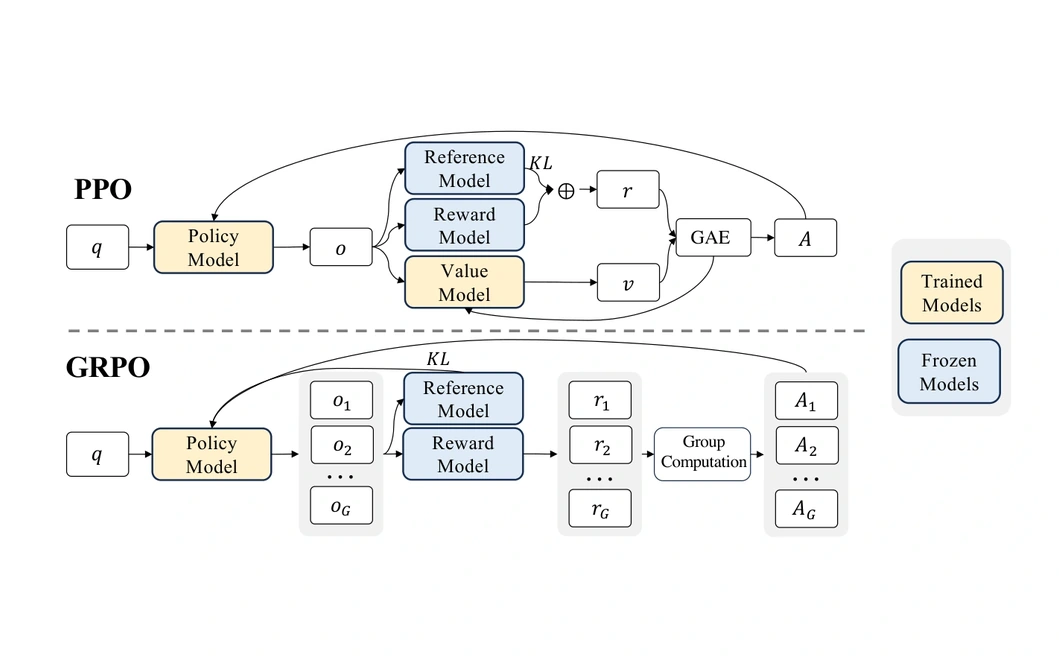
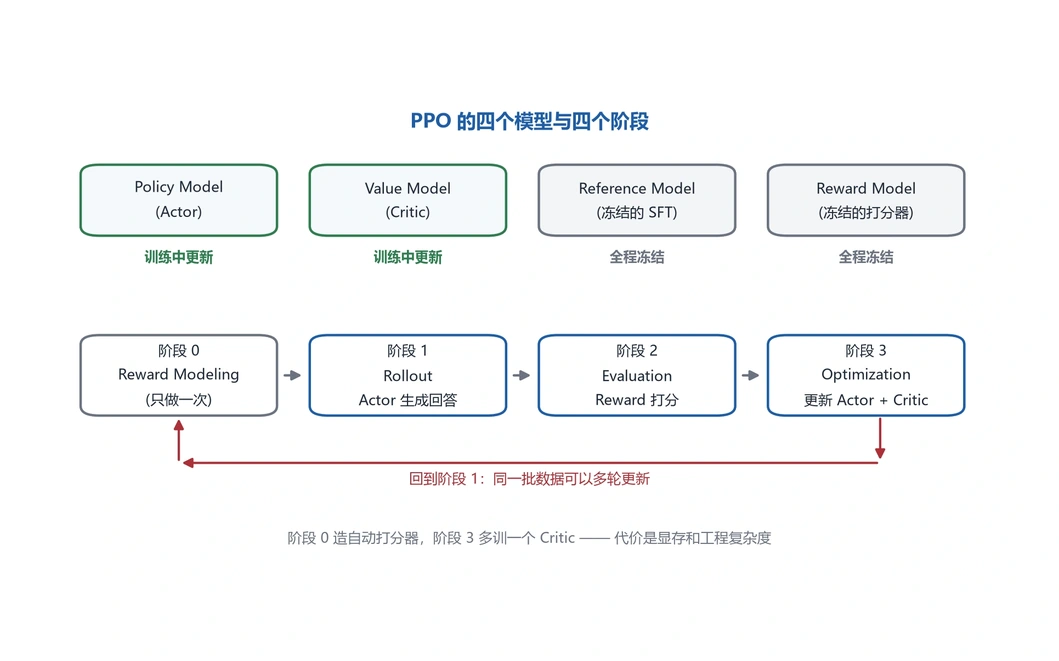
强化学习笔记（一）改用 PPO 模型与阶段图作为卡片封面

Changed region(s): [[0.0623, 0.1513, 0.966, 0.8472]]

diff --git a/tools/rl-cover.py b/tools/rl-cover.py
@@ -1,0 +1,98 @@
+"""Render the card cover for the RL note (part 1).
+
+The blog's other notes use a padded paper figure as the post-list card image,
+but those figures turn into an unreadable grey mush at card size. This cover is
+a deliberately simple concept diagram — three stages, three arrows — so the
+topic still reads when scaled down to a ~380px-wide card.
+"""
+
+import pathlib
+import sys
+
+import matplotlib
+
+matplotlib.use("Agg")
+import matplotlib.pyplot as plt
+from matplotlib.patches import FancyArrowPatch, FancyBboxPatch
+from PIL import Image
+
+sys.stdout.reconfigure(encoding="utf-8", errors="replace")
+
+BLUE = "#1f5da8"
+TINT = "#eef4fc"
+GREY = "#6b7280"
+INK = "#1f2937"
+
+plt.rcParams["font.sans-serif"] = ["Microsoft YaHei", "Noto Sans SC", "SimHei"]
+plt.rcParams["axes.unicode_minus"] = False
+
+W, H = 1059, 661
+
+
+def render(out: pathlib.Path) -> None:
+    """Optional alternative: a designed concept chain (kept for reference)."""
+    fig = plt.figure(figsize=(W / 100, H / 100), dpi=100)
+    ax = fig.add_axes([0, 0, 1, 1])
+    ax.set_xlim(0, 100)
+    ax.set_ylim(0, 100)
+    ax.axis("off")
+    fig.patch.set_facecolor("white")
+
+    bw, bh, y = 26.0, 34.0, 33.0      # box size / bottom edge (vertically centred)
+    xs = [3.0, 37.0, 71.0]
+    cy = y + bh / 2
+
+    nodes = [("策略梯度", "奖励不可导\n怎么还能训练", False),
+             ("Actor-Critic", "基线从哪来", False),
+             ("PPO", "数据复用\n+ 更新限速", True)]
+
+    for x, (name, sub, solid) in zip(xs, nodes):
+        ax.add_patch(FancyBboxPatch(
+            (x, y), bw, bh,
+            boxstyle="round,pad=0,rounding_size=2.8",
+            linewidth=2.0, edgecolor=BLUE,
+            facecolor=BLUE if solid else TINT, zorder=2))
+        ax.text(x + bw / 2, cy + 5.4, name,
+                ha="center", va="center", fontsize=18 if solid else 17,
+                color="white" if solid else INK,
+                fontweight="bold", zorder=3)
+        ax.text(x + bw / 2, cy - 8.0, sub,
+                ha="center", va="center", fontsize=9.5,
+                color="#dce8f7" if solid else GREY,
+                linespacing=1.6, zorder=3)
+
+    for i in range(2):
+        ax.add_patch(FancyArrowPatch(
+            (xs[i] + bw + 0.9, cy), (xs[i + 1] - 0.9, cy),
+            arrowstyle="-|>", mutation_scale=20, linewidth=2.4,
+            color=BLUE, shrinkA=0, shrinkB=0, zorder=1))
+
+    png = out / "rl-cover-alt.png"
+    fig.savefig(png, dpi=100, facecolor="white")
+    plt.close(fig)
+    with Image.open(png) as im:
+        im.convert("RGB").save(out / "rl-cover-alt.webp", quality=94, method=6)
+        print(f"rl-cover-alt.webp {im.size}")
+    png.unlink()
+
+
+def pad_alt(out: pathlib.Path) -> None:
+    """Card cover: the PPO pipeline diagram, padded to the blog's cover ratio.
+
+    Chosen over the PPO-vs-GRPO figure because part 1 does not cover GRPO, and
+    over a designed text graphic because type that small is illegible on a card.
+    """
+    src = out / "ppo-pipeline.webp"
+    with Image.open(src) as im:
+        im = im.convert("RGB")
+        im.thumbnail((979, 581), Image.Resampling.LANCZOS)
+        cover = Image.new("RGB", (W, H), "white")
+        cover.paste(im, ((W - im.width) // 2, (H - im.height) // 2))
+        cover.save(out / "rl-cover.webp", quality=94, method=6)
+        print(f"rl-cover.webp {cover.size} (from ppo-pipeline)")
+
+
+if __name__ == "__main__":
+    d = pathlib.Path(sys.argv[1])
+    render(d)
+    pad_alt(d)
